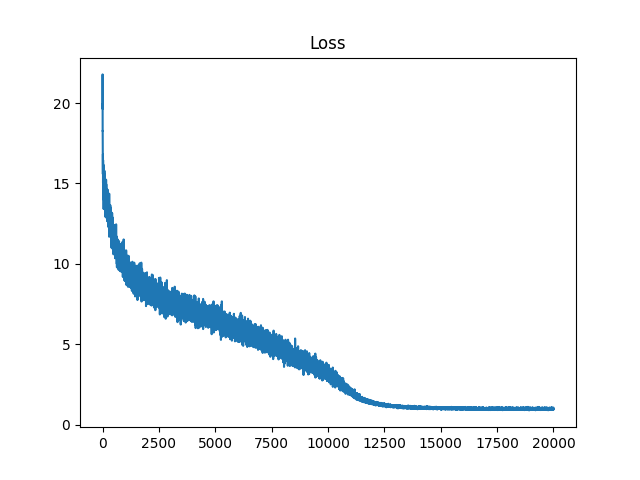
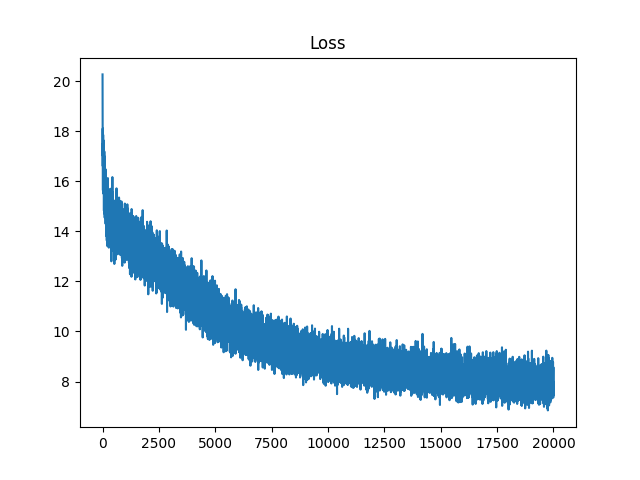
tuning lr of vmd_2d_gaussian.py

diff --git a/vmd/vmd_2d_gaussian.py b/vmd/vmd_2d_gaussian.py
@@ -110,11 +110,11 @@ def main():
     num_eval_data = 512
 
     # Optimization hyper-parameters
-    learning_rate = 3e-3
+    learning_rate = 3e-4
     num_train_steps = 20000  # nr of training steps
 
-    rng = jax.random.PRNGKey(seed=0)
-    np.random.seed(0)
+    rng = jax.random.PRNGKey(seed=np.random.randint(0, 2 ** 32))
+    np.random.seed(np.random.randint(0, 2 ** 32))
 
     """Create datasets"""
     # # Make 8-bit swirl dataset
@@ -131,13 +131,26 @@ def main():
     # training_data = mean + np.random.normal(size=[num_training_data, 2]) * std
     # eval_data = mean + np.random.normal(size=[num_eval_data, 2]) * std
 
-    theta = np.sqrt(np.random.rand(num_training_data)) * 3 * np.pi
-    r_a = 2 * theta + np.pi
-    training_data = np.array([np.cos(theta) * r_a, np.sin(theta) * r_a]).T
+    def sample_data(num_data):
+        theta = np.sqrt(np.random.rand(num_data)) * 3 * np.pi
+        r_a = 2 * theta + np.pi
+        data = np.array([np.cos(theta) * r_a, np.sin(theta) * r_a]).T
 
-    theta = np.sqrt(np.random.rand(num_eval_data)) * 3 * np.pi
-    r_a = 2 * theta + np.pi
-    eval_data = np.array([np.cos(theta) * r_a, np.sin(theta) * r_a]).T
+        return data
+
+    # theta = np.sqrt(np.random.rand(num_training_data)) * 3 * np.pi
+    # r_a = 2 * theta + np.pi
+    # training_data = np.array([np.cos(theta) * r_a, np.sin(theta) * r_a]).T
+    # training_data = 4 * (training_data + .25 * np.random.randn(num_training_data, 2) + 30)
+    # training_data = training_data.astype('uint8')
+
+    # theta = np.sqrt(np.random.rand(num_eval_data)) * 3 * np.pi
+    # r_a = 2 * theta + np.pi
+    # eval_data = np.array([np.cos(theta) * r_a, np.sin(theta) * r_a]).T
+    # eval_data = 4 * (eval_data + .25 * np.random.randn(num_eval_data, 2) + 30)
+    # eval_data = eval_data.astype('uint8')
+    training_data = sample_data(num_training_data)
+    eval_data = sample_data(num_eval_data)
 
     # plot dataset
     axis_lim = 25
@@ -214,13 +227,13 @@ def main():
     #     # Logits are exact if there are no dependencies between dimensions of x
     #     x_vals = jnp.arange(0, vocab_size)[:, None]
     #     x_vals = jnp.repeat(x_vals, z_0_rescaled.shape[-1], 1)
-    #     x_vals = data_encode(x_vals).transpose([1, 0])[None, :, :]
+    #     x_vals = normalize(x_vals).transpose([1, 0])[None, :, :]
     #     inv_stdev = jnp.exp(-0.5 * gamma_0[..., None])
     #     logits = -0.5 * jnp.square((z_0_rescaled[..., None] - x_vals) * inv_stdev)
     #
     #     logprobs = jax.nn.log_softmax(logits)
     #     return logprobs
-
+    #
     # def data_logprob(x, z_0_rescaled, gamma_0, vocab_size=256):
     #     x = x.round().astype('int32')
     #     x_onehot = jax.nn.one_hot(x, vocab_size)
@@ -247,6 +260,11 @@ def main():
         # _, log_probs = decode(f, z_0, alpha_0, sigma_0)
         log_probs = decode_log_probs(params, z_0, x)
         loss_recon = -log_probs
+
+        # gamma_0 = model.apply(params, 0.0, method=VDM.gamma)
+        # alpha_0 = jnp.sqrt(jax.nn.sigmoid(-gamma_0))
+        # z_0_rescaled = z_0 / alpha_0
+        # loss_recon = -data_logprob(x, z_0_rescaled, gamma_0)
 
         # 2. LATENT LOSS
         # KL z1 with N(0,1) prior
@@ -326,6 +344,7 @@ def main():
     # training loop (should take ~20 mins)
     losses = []
     for i in tqdm.trange(num_train_steps):
+        # training_data = sample_data(num_training_data)
         rng, optim_state, params, loss, _metrics = train_step(rng, optim_state, params, training_data)
         losses.append(loss)
 
@@ -444,7 +463,7 @@ def main():
         ax.set_ylim(-axis_lim, axis_lim)
         ax.set_title(r"$\hat{x}$")
 
-        axis_lim = 10
+        axis_lim = 3
         for timestep_idx, timestep in enumerate(np.linspace(0, 1, 11)):
             t = int(timestep * num_diffusion_steps)
 
